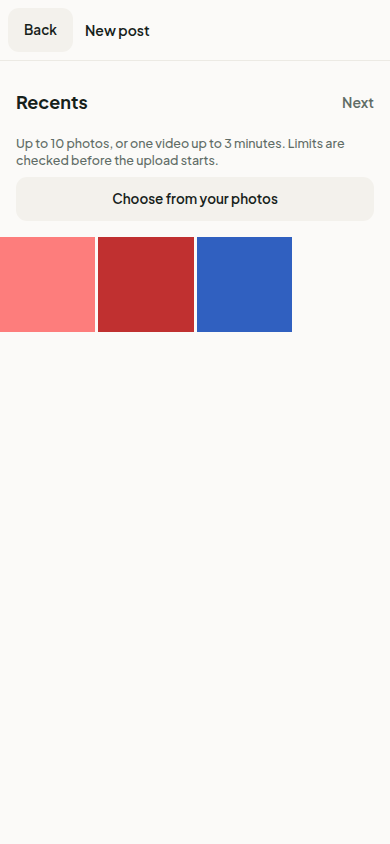
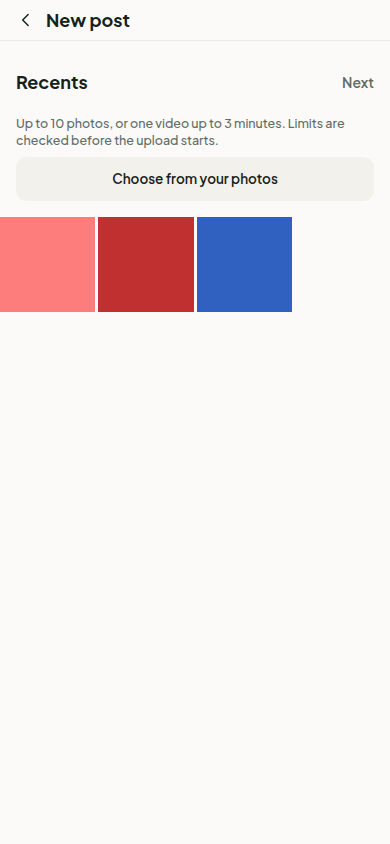
The most-pressed control in the app was a button where the design draws a chevron
`Header` — the bar on every PUSHED screen, nineteen routes — rendered a
secondary `Button` labelled "Back": a filled pill with a border, carrying the
most repeated and least remarkable action in the product. Every pushed artboard
in `design/012-ui` draws a bare chevron followed by the screen's name:
`InterestSpace`, `PostDetail`, `Conversation`, `Saved`, `EditProfile`, the rest.

Three things moved, all from the artboards:

- the button became an `Icon name="back"` at `action`,
- the title went from body/600 to `t-title` (18/24/700), which is what a pushed
  screen's name is set in,
- gap 12 → 10, and the bar gained the artboards' 16pt side padding.

`nav-back` keeps its testID — nineteen route tests and the Maestro flows press
it and it marks the same thing — and the accessible label is now EXPLICIT,
because a chevron has no text for a screen reader to read. That was the one
thing the button did for free, and dropping it silently is how an icon-only
control becomes unusable without anybody noticing.

The touch-target guard refused it immediately, correctly: a `Button` sizes
itself and needs no entry, a bare icon does not. Registered in `SLOP_TARGETS`
with real arithmetic (20 + 12 + 12 = 44 both ways) rather than by mentioning
hitSlop, which is the weakness 007 took out of that guard.

354 mobile tests green; re-captured and checked.

Changed region(s): [[0.0, 0.0924, 0.9538, 0.3081], [0.0, 0.3697, 0.7692, 0.4005], [0.0615, 0.0, 0.4, 0.0616]]

diff --git a/apps/mobile/src/App.tsx b/apps/mobile/src/App.tsx
@@ -268,19 +268,52 @@ function headerTitle(route: Route): string {
   return OVERLAY_SCREENS[route.screen]?.title ?? route.screen;
 }
 
+/**
+ * THE HEADER ON EVERY PUSHED SCREEN, and the one place worth getting right.
+ *
+ * It rendered a SECONDARY BUTTON LABELLED "Back" — a filled pill with a border,
+ * sitting where `InterestSpace.dc.html`, `PostDetail.dc.html`, `Conversation`,
+ * `Saved`, `EditProfile` and every other pushed artboard draw a bare CHEVRON
+ * followed by the title. A button is the heaviest control in the system and it
+ * was carrying the most-repeated, least-remarkable action in the product, on
+ * nineteen routes.
+ *
+ * The title also moved: `t-title` (18/24/700) rather than body at 600, which is
+ * what the artboards set a pushed screen's name in, and it sits BESIDE the
+ * chevron with 10 between them rather than after a 12 gap.
+ *
+ * `nav-back` keeps its testID: nineteen route tests and the Maestro flows press
+ * it, and it marks the same thing it always did. The accessible label is now
+ * explicit, because a chevron has no text for a screen reader to read — that is
+ * the one thing the button was doing for free.
+ */
 function Header({ title, onBack }: { title: string; onBack: () => void }) {
   return (
     <Row
       style={{
         alignItems: 'center',
-        gap: space.md,
-        padding: space.sm,
+        gap: 10,
+        paddingHorizontal: space.lg,
+        paddingVertical: space.sm,
         borderBottomWidth: 1,
         borderBottomColor: palette.line.hairline,
       }}
     >
-      <Button testID="nav-back" label="Back" variant="secondary" onPress={onBack} />
-      <Text style={{ ...textStyle.body, ...font('600'), color: palette.text.primary }}>{title}</Text>
+      <Pressable
+        testID="nav-back"
+        accessibilityRole="button"
+        accessibilityLabel="Back"
+        onPress={onBack}
+        hitSlop={{ top: 12, bottom: 12, left: 12, right: 12 }}
+      >
+        <Icon name="back" size="action" color={palette.text.primary} />
+      </Pressable>
+      <Text
+        numberOfLines={1}
+        style={{ ...textStyle.title, color: palette.text.primary, flexShrink: 1 }}
+      >
+        {title}
+      </Text>
     </Row>
   );
 }

diff --git a/apps/mobile/src/__tests__/touch-target.test.tsx b/apps/mobile/src/__tests__/touch-target.test.tsx
@@ -93,6 +93,17 @@ describe('every control is reliably tappable', () => {
    */
   const SLOP_TARGETS: { file: string; match: string; label: string; boxHeight: number; boxWidth: number; slop: { top: number; bottom: number; left: number; right: number } }[] = [
     {
+      file: 'src/App.tsx',
+      match: 'nav-back',
+      label: 'the back chevron on every pushed screen',
+      // It was a `Button` before — a control that sizes ITSELF and needed no
+      // entry here. A bare icon does not, and this is the most-pressed control
+      // in the product: nineteen routes, every screen you can push.
+      boxHeight: ICON_SIZE.action,
+      boxWidth: ICON_SIZE.action,
+      slop: { top: 12, bottom: 12, left: 12, right: 12 },
+    },
+    {
       file: 'src/features/feed/HomeFeedScreen.tsx',
       match: 'feed-search',
       label: "the feed header's search",
